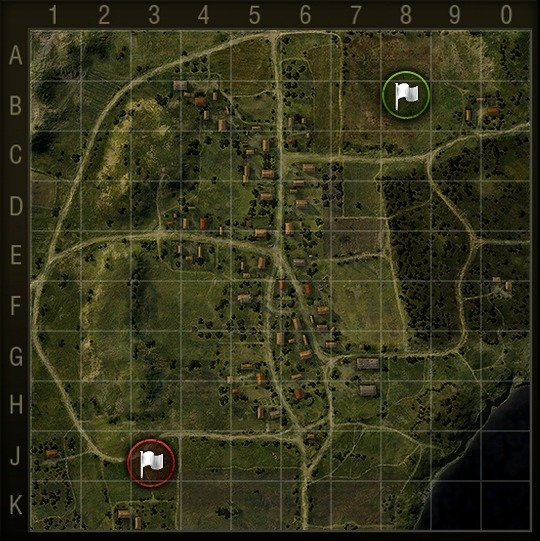
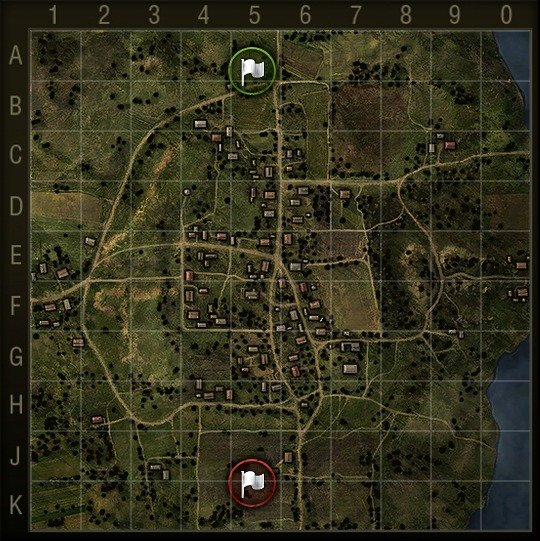
update maps for v0.9.3

diff --git a/index.html b/index.html
@@ -1,6 +1,6 @@
 <html>
 <body>
-<h1>World of Tanks (version 0.9.2) minimaps</h1>
+<h1>World of Tanks (version 0.9.3) minimaps</h1>
 
 <p>Maps generated using <a href=https://github.com/Kuitsi/WotMiniMapMaker>WotMiniMapMaker</a>.<br />
 Team 1 = green, Team 2 = red.</p>
